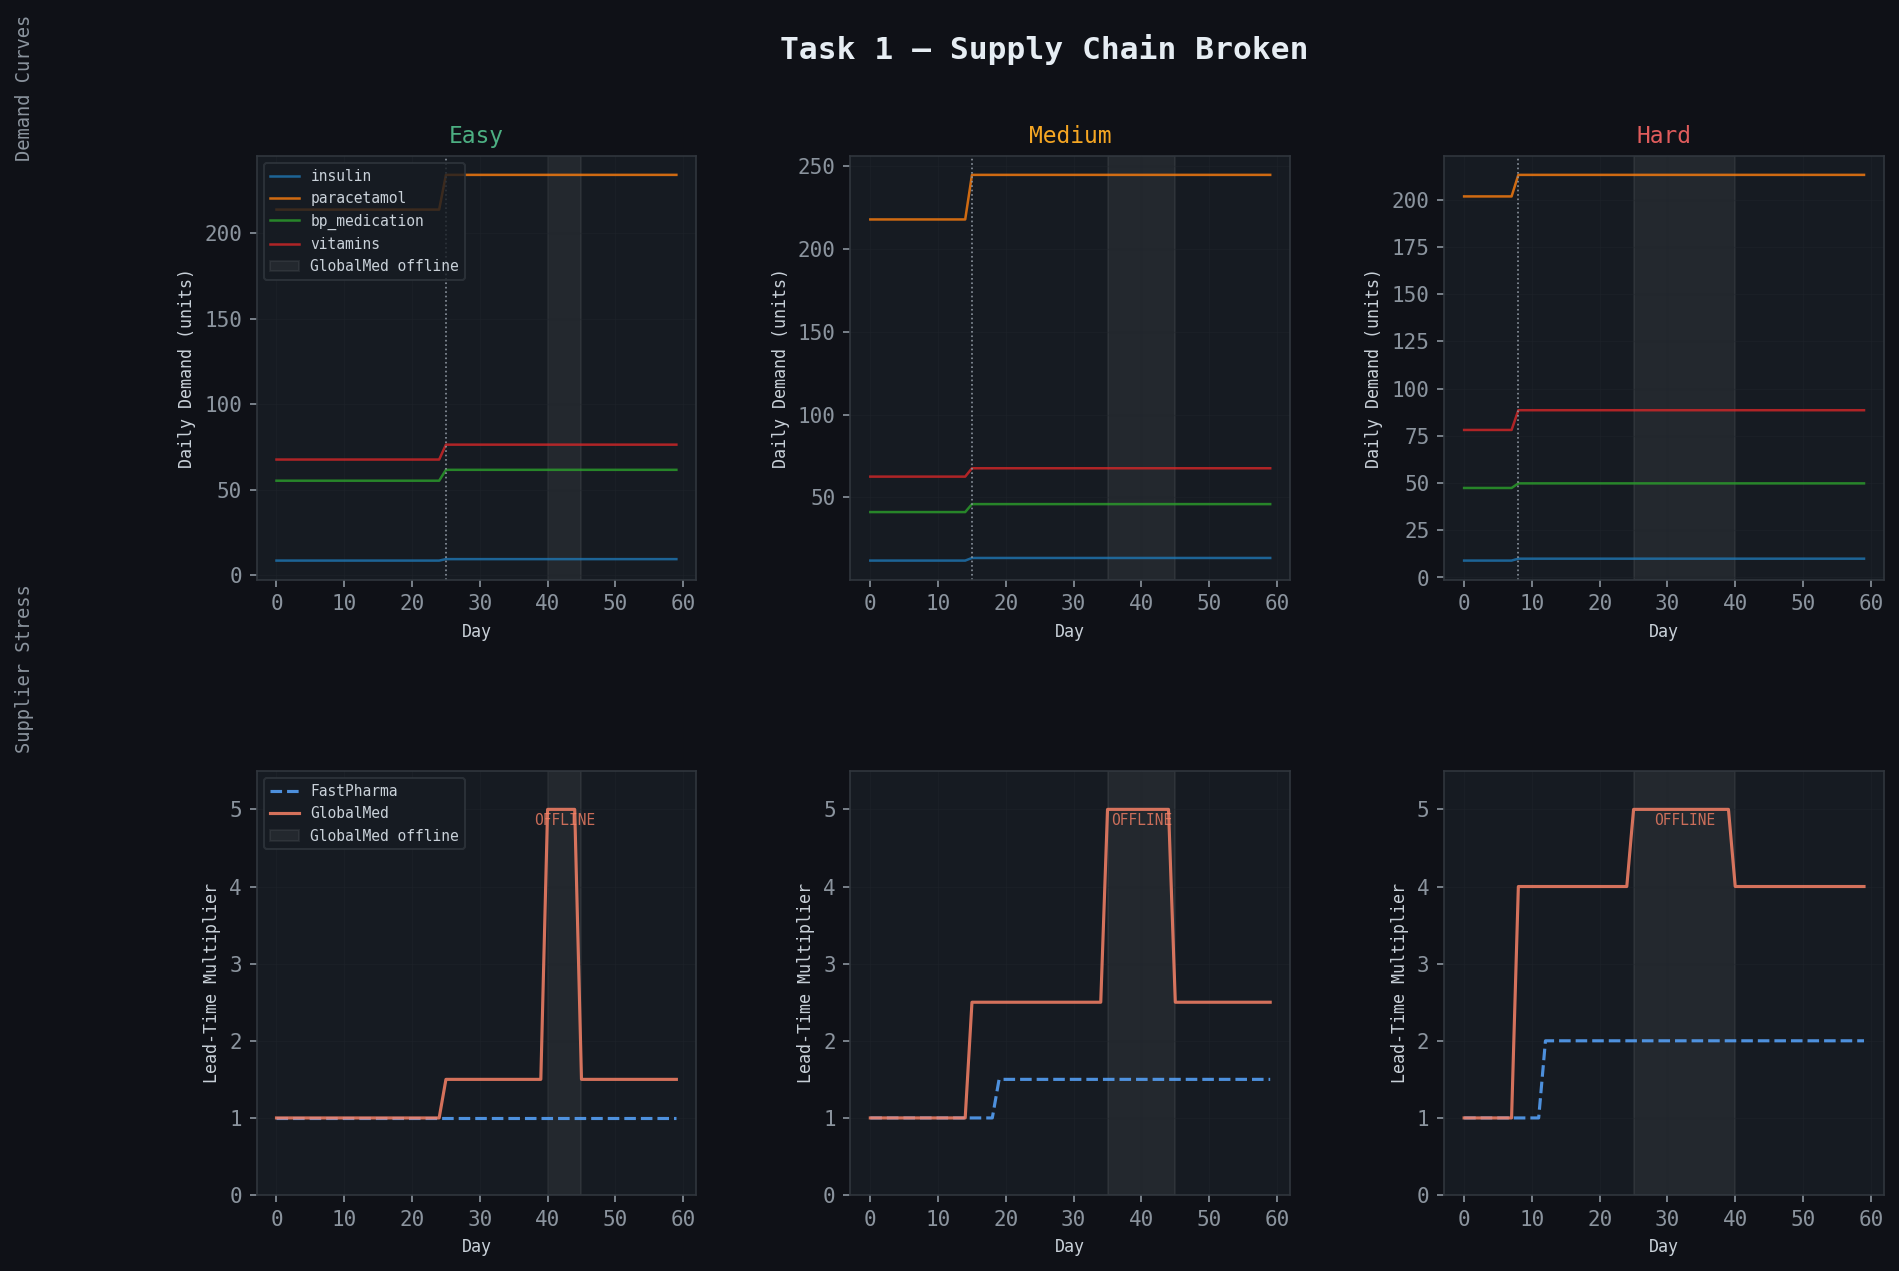
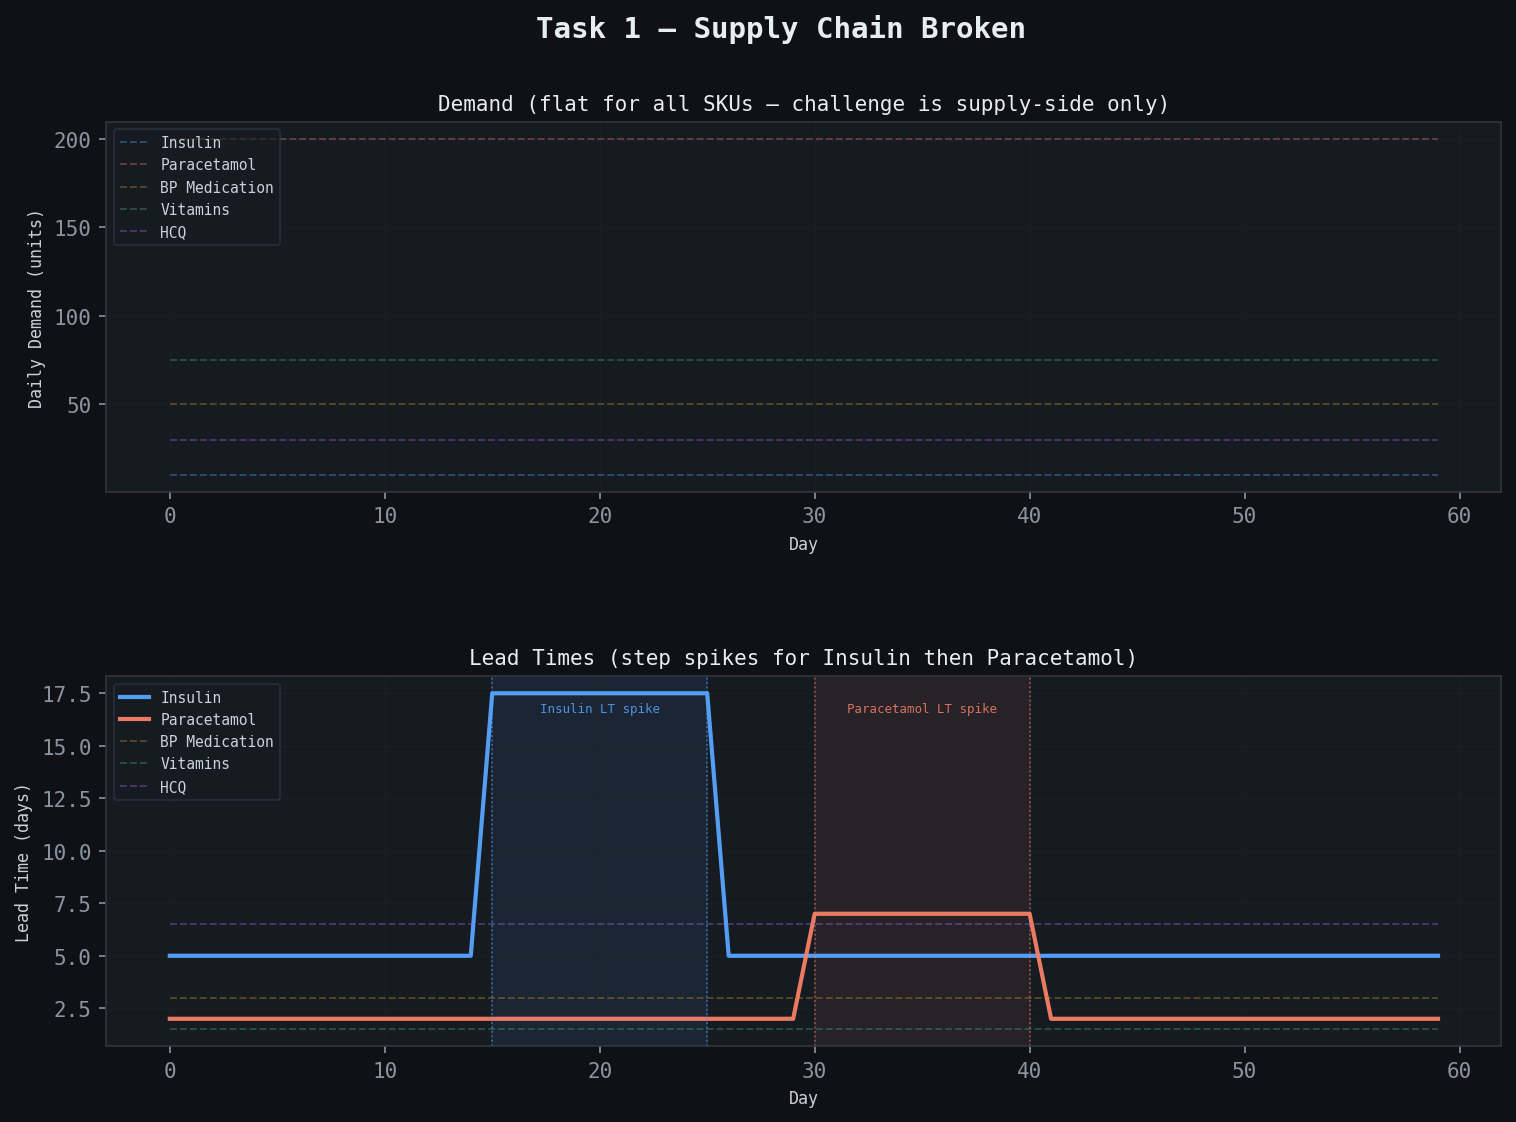
'new_plots'

diff --git a/README.md b/README.md
@@ -112,7 +112,7 @@ Demand is flat across all SKUs. The challenge is entirely supply-side: lead time
 
 The agent that waits for stockout signals will order too late — orders placed after the lead time extends arrive after the stockout.
 
-![Supply Chain Broken — Demand & Lead Times](plots/task1_supply_chain (1).png)
+![Supply Chain Broken — Demand & Lead Times](plots/task1_supply_chain.png)
 
 
 ### Task 2 — Flu Season (`flu_season`)
@@ -123,7 +123,7 @@ A flu outbreak drives a Gaussian demand surge for paracetamol, peaking at day 30
 - Paracetamol lead times also step up during days 30–40 (logistics stress during the peak).
 - The agent must pre-stock before day 30 — ordering at peak demand while lead times are stretched leaves no time for delivery.
 
-![Flu Season — Demand Curves](plots/task2_flu_season (1).png)
+![Flu Season — Demand Curves](plots/task2_flu_season.png)
 
 
 ### Task 3 — Epidemic, Two Waves (`epidemic_two_wave`)
@@ -138,7 +138,7 @@ A two-wave epidemic drives hydroxychloroquine (HCQ) demand through two sequentia
 
 The trough between waves (days 27–40) is a trap: demand is low but the agent must keep ordering because wave 2 is larger and HCQ lead times are long (5–8 day baseline).
 
-![Epidemic Two Wave — HCQ Demand](plots/task3_epidemic (1).png)
+![Epidemic Two Wave — HCQ Demand](plots/task3_epidemic.png)
 
 ---
 
